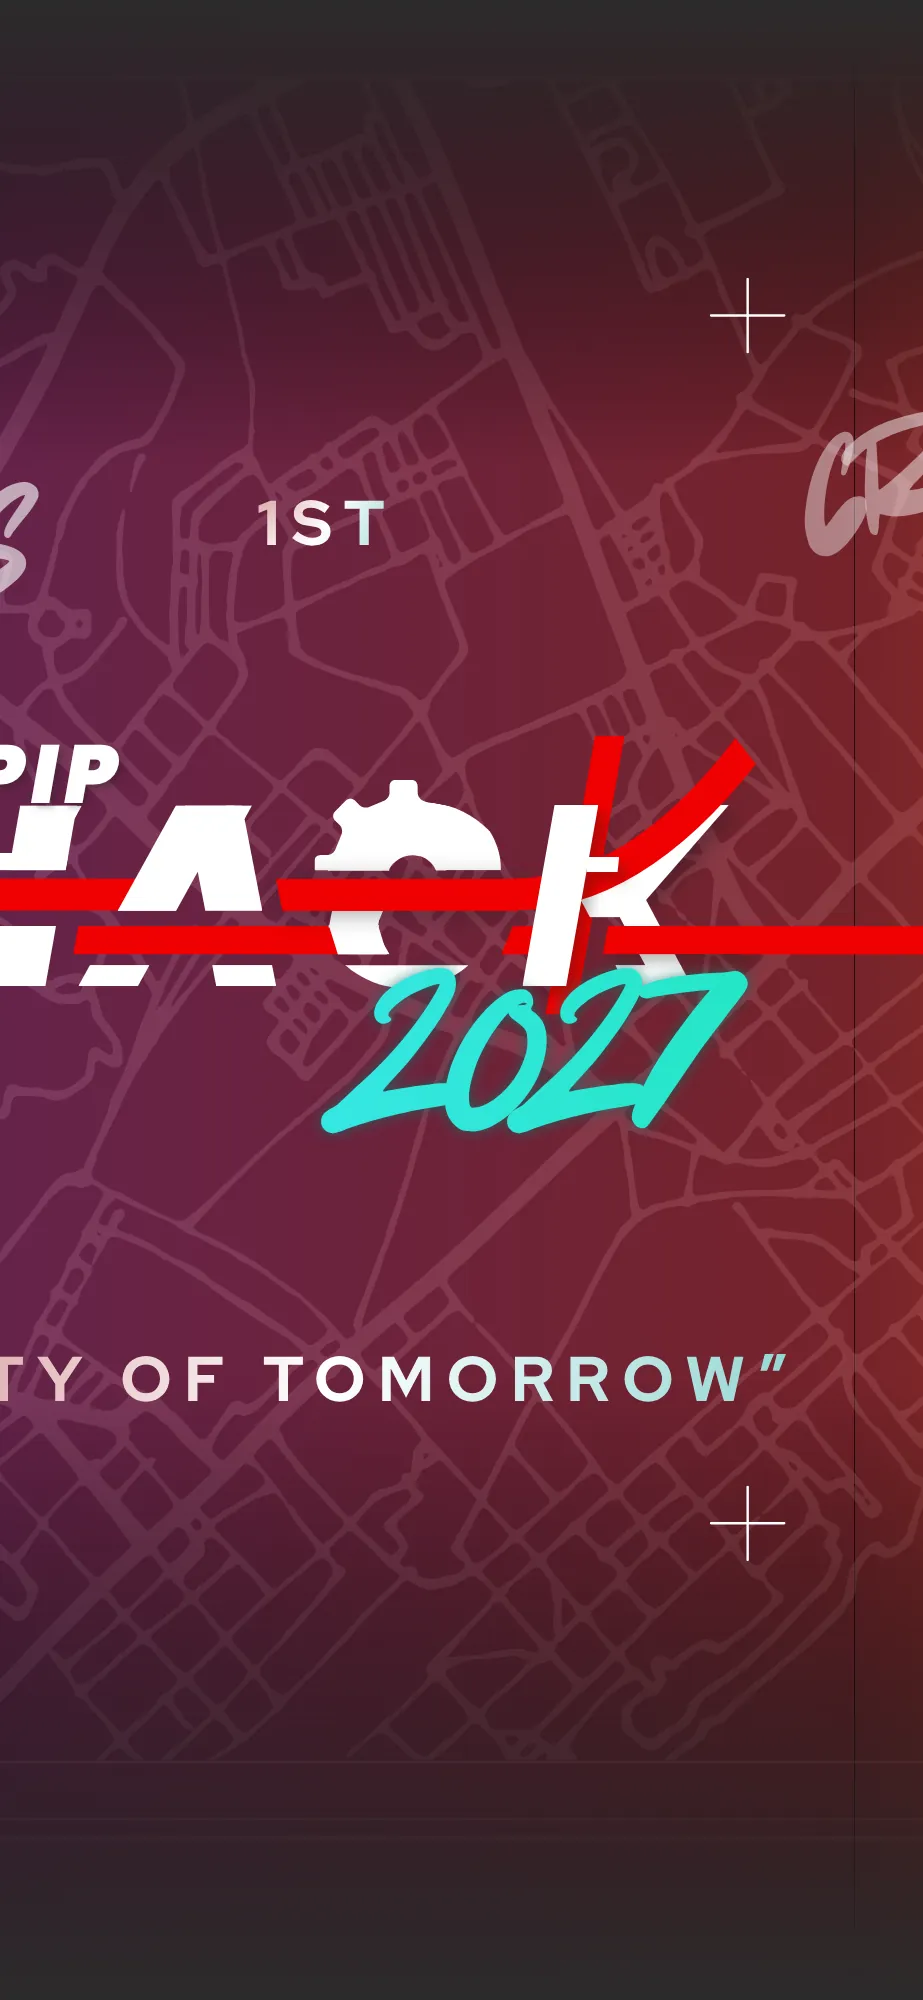
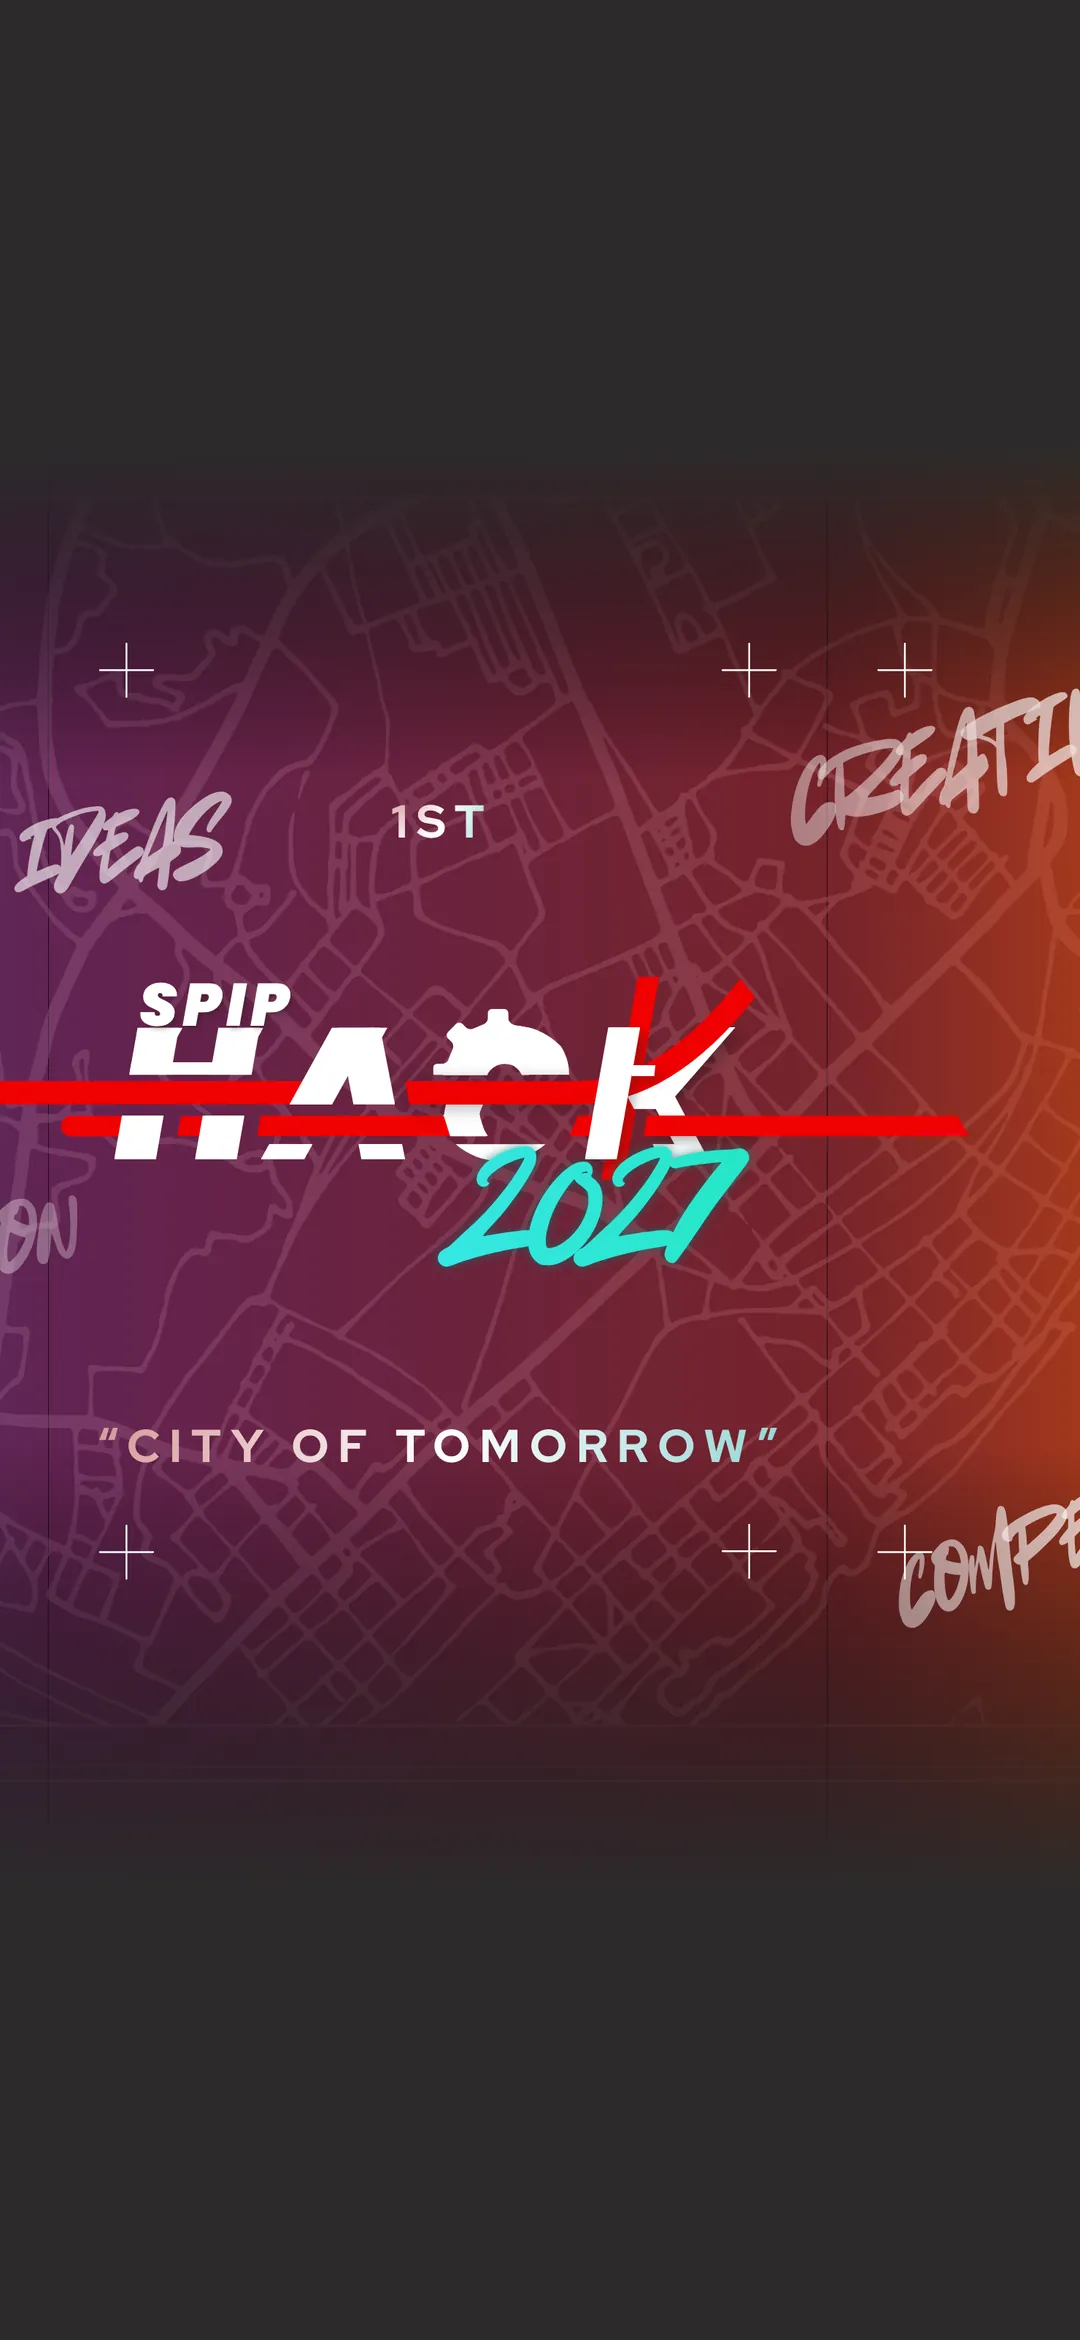
Fit the intro to phones
- Rebuild the phone background (1080×2340): the whole logo area fits
  the phone's width, padded above and below with the poster's own edge
  colour, so the logo and "CITY OF TOMORROW" are no longer cut off
- Keep COMING SOON on one line on small phones by capping its size to
  the screen width

diff --git a/index.html b/index.html
@@ -78,10 +78,11 @@
       <section class="intro" aria-label="SPIP Hack 2027 — coming soon">
         <div class="intro__stage">
           <!-- Text-free banner exports, made from assets/posters/4-3 Background.png
-               (3200×2000; the phone file is a full-height crop centred on the logo). If they're missing, js/intro.js falls back to the
+               (3200×2000). The phone file fits the logo area to the phone's width, padded
+               above and below with the poster's own edge colour, so nothing gets cut off. If they're missing, js/intro.js falls back to the
                regular banner (data-fallback) and darkens its baked-in "COMING SOON". -->
           <picture class="intro__bg" aria-hidden="true">
-            <source media="(max-width: 767px)" type="image/webp" srcset="assets/posters/hero-banner-clean-3x4.webp" data-fallback="assets/posters/hero-banner-3x4.webp" width="923" height="2000">
+            <source media="(max-width: 767px)" type="image/webp" srcset="assets/posters/hero-banner-clean-3x4.webp" data-fallback="assets/posters/hero-banner-3x4.webp" width="1080" height="2340">
             <img src="assets/posters/hero-banner-clean-16x9.webp" data-fallback="assets/posters/hero-banner-16x9.webp" width="3200" height="2000" fetchpriority="high" decoding="async" alt="">
           </picture>
           <div class="intro__shade" aria-hidden="true"></div>

diff --git a/css/intro.css b/css/intro.css
@@ -68,8 +68,10 @@
 .intro__soon-title {
   font-family: var(--font-display);
   font-weight: 700;
-  font-size: clamp(3rem, 1rem + 9vw, 9.5rem);
+  /* The second value keeps it on one line on small phones ("COMING SOON" is about 6.8em wide) */
+  font-size: min(clamp(3rem, 1rem + 9vw, 9.5rem), calc((100vw - 2 * var(--gutter)) / 6.9));
   line-height: .95;
+  white-space: nowrap;
   letter-spacing: .02em;
   text-transform: uppercase;
   text-shadow: 0 6px 40px rgba(0, 0, 0, .55), 0 1px 2px rgba(0, 0, 0, .4);
